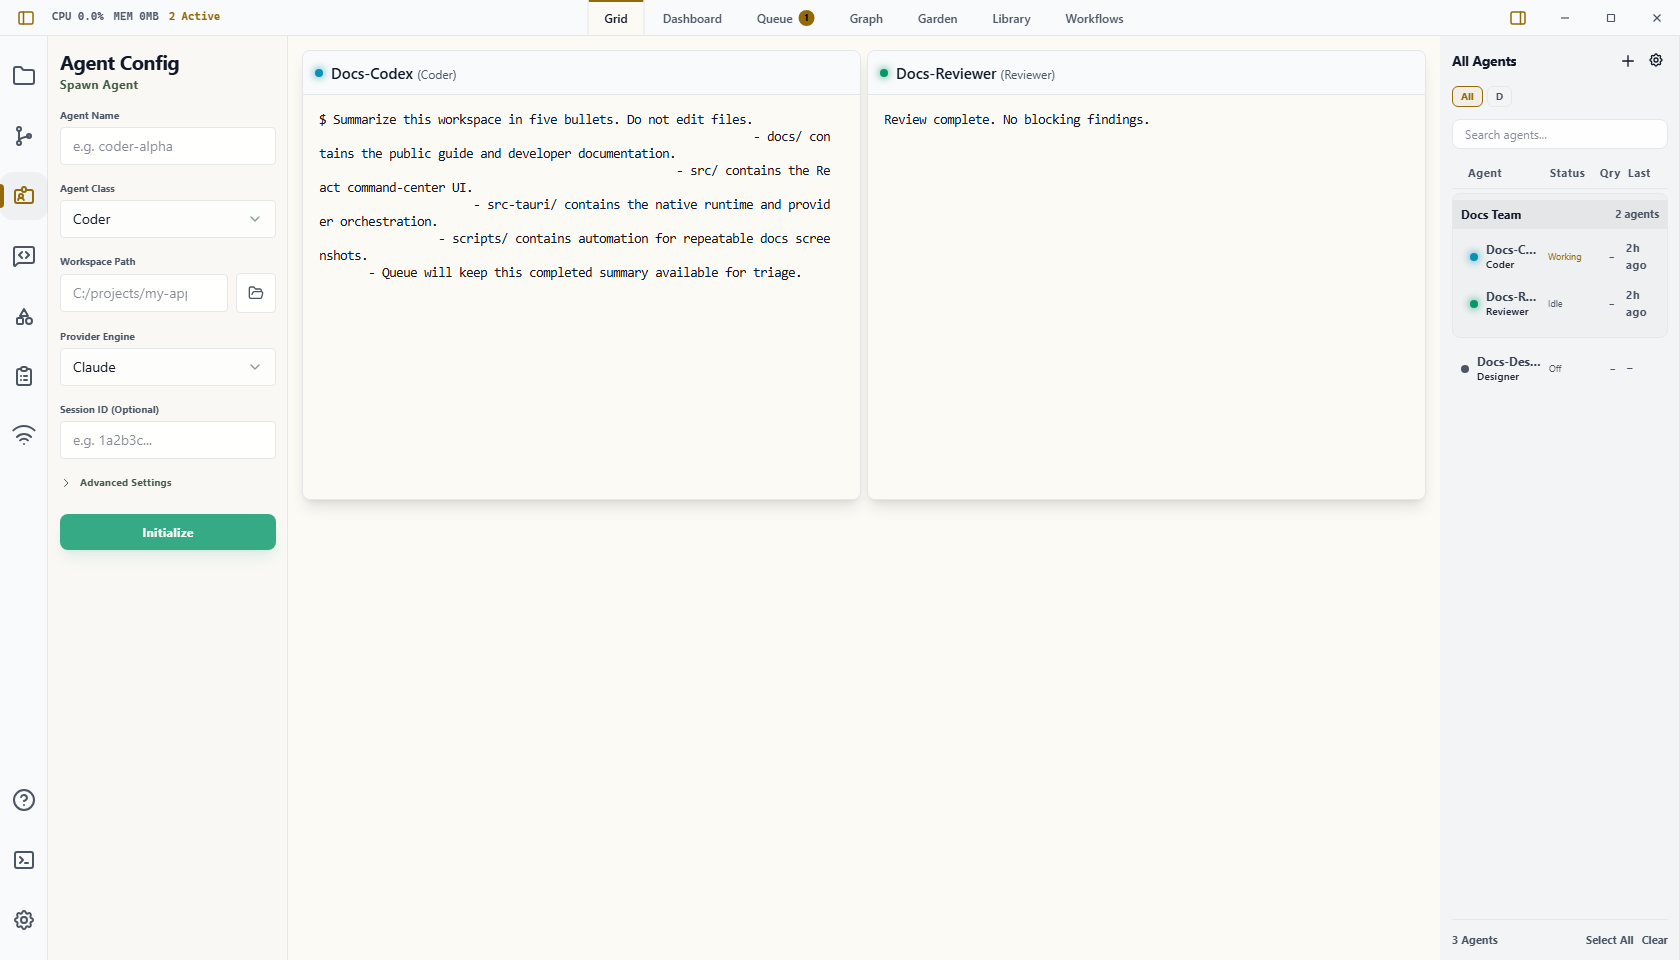
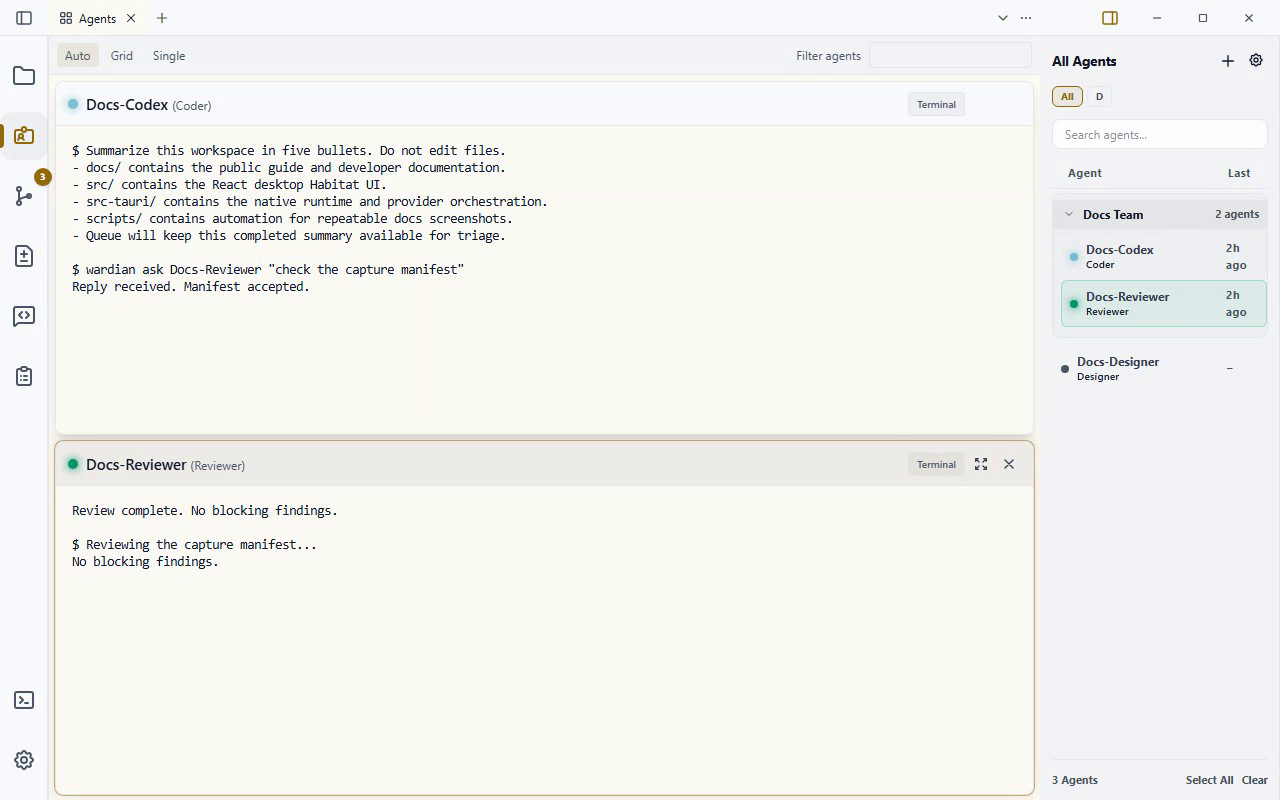
fix: correct the AGENTS.md answer, flag Gemini CLI, and fix the social card
Four things an audit of the page turned up.

The FAQ claimed every supported provider discovers AGENTS.md natively. The
provider table says otherwise for two of six: Claude Code reads CLAUDE.md and
Gemini CLI reads GEMINI.md. The answer now names the convention each CLI
actually keeps.

Gemini CLI sat in the provider grid as an equal of the other five while the
docs mark it Unmaintained. It carries that label now, because "which CLI
should I pick" is the one thing a reader acts on from that grid.

The Open Graph image was a stale app screenshot carrying the terminal
line-ending bug that the clip capture fixed, in a frame that was two thirds
empty. It is the hero clip's poster now, and twitter:card is
summary_large_image so a 1280x800 image is not cropped to a square.

The sitemap listed only the homepage while five download routes exist and are
linked from it.

diff --git a/index.html b/index.html
@@ -18,8 +18,10 @@
     <meta property="og:type" content="website">
     <meta property="og:site_name" content="Wardian">
     <meta property="og:image" content="https://wardian.org/assets/wardian-screenshot.png">
-    <meta property="og:image:alt" content="Wardian desktop app showing live AI agent terminals and roster status.">
-    <meta name="twitter:card" content="summary">
+    <meta property="og:image:width" content="1280">
+    <meta property="og:image:height" content="800">
+    <meta property="og:image:alt" content="The Wardian desktop app with two live agent terminals and the agent roster.">
+    <meta name="twitter:card" content="summary_large_image">
     <meta name="twitter:title" content="Wardian - Local Agent Work, Made Durable">
     <meta name="twitter:description" content="Where local agent work becomes visible, durable, and malleable.">
     <meta name="twitter:image" content="https://wardian.org/assets/wardian-screenshot.png">
@@ -582,7 +584,7 @@
               <p>Real target workspace with explicit project session resume.</p>
             </article>
             <article>
-              <span>Gemini CLI</span>
+              <span>Gemini CLI <em class="provider-note">unmaintained</em></span>
               <p>Real-workspace runtime with skill discovery support.</p>
             </article>
             <article>
@@ -648,9 +650,11 @@
             <details name="faq">
               <summary>Does it respect the AGENTS.md and skills I already have?</summary>
               <p>
-                Yes. Every supported provider discovers <code>AGENTS.md</code>
-                natively, and Wardian adds its own instruction files and skill
-                roots through each CLI's own mechanism rather than replacing
+                Yes. Each CLI keeps reading whatever it already reads &mdash;
+                <code>AGENTS.md</code> for Codex, Pi, Antigravity and OpenCode,
+                <code>CLAUDE.md</code> for Claude Code, <code>GEMINI.md</code>
+                for Gemini CLI. Wardian adds its own instruction files and skill
+                roots through that CLI's own mechanism rather than replacing
                 what you have set up.
               </p>
             </details>

diff --git a/styles.css b/styles.css
@@ -771,6 +771,22 @@ h1 {
   font-weight: 800;
 }
 
+/* Gemini CLI is supported but unmaintained. The grid would otherwise read as
+   six equals, which is the one thing a reader would act on and be wrong. */
+.provider-note {
+  margin-left: 0.45rem;
+  padding: 0.08rem 0.4rem;
+  border: 1px solid var(--line);
+  border-radius: 999px;
+  color: var(--muted);
+  font-size: 0.72rem;
+  font-style: normal;
+  font-weight: 600;
+  letter-spacing: 0.02em;
+  text-transform: uppercase;
+  vertical-align: middle;
+}
+
 .provider-grid p,
 .download-grid p {
   margin-bottom: 0;

diff --git a/README.md b/README.md
@@ -18,8 +18,9 @@ real absolute path, drive letter, or user home directory.
   [Feature media](#feature-media).
 - `assets/wardian-logo.svg` - real Wardian logo, copied from
   `<wardian-repo>/public/icon.svg`.
-- `assets/wardian-screenshot.png` - real app screenshot used for social cards,
-  copied from `<wardian-repo>/docs/assets/screenshots/grid/app-shell.png`.
+- `assets/wardian-screenshot.png` - the Open Graph and Twitter card image. It
+  is the hero clip's poster frame, so refreshing the clips refreshes the card:
+  copy `<wardian-repo>/docs/assets/site-media/hero.png` over it.
 - `assets/wardian-demo.gif` - the previous hero animation, copied from
   `<wardian-repo>/public/demo.gif`. The homepage now uses the `hero` clip
   instead; the file is kept because external pages link to it.
